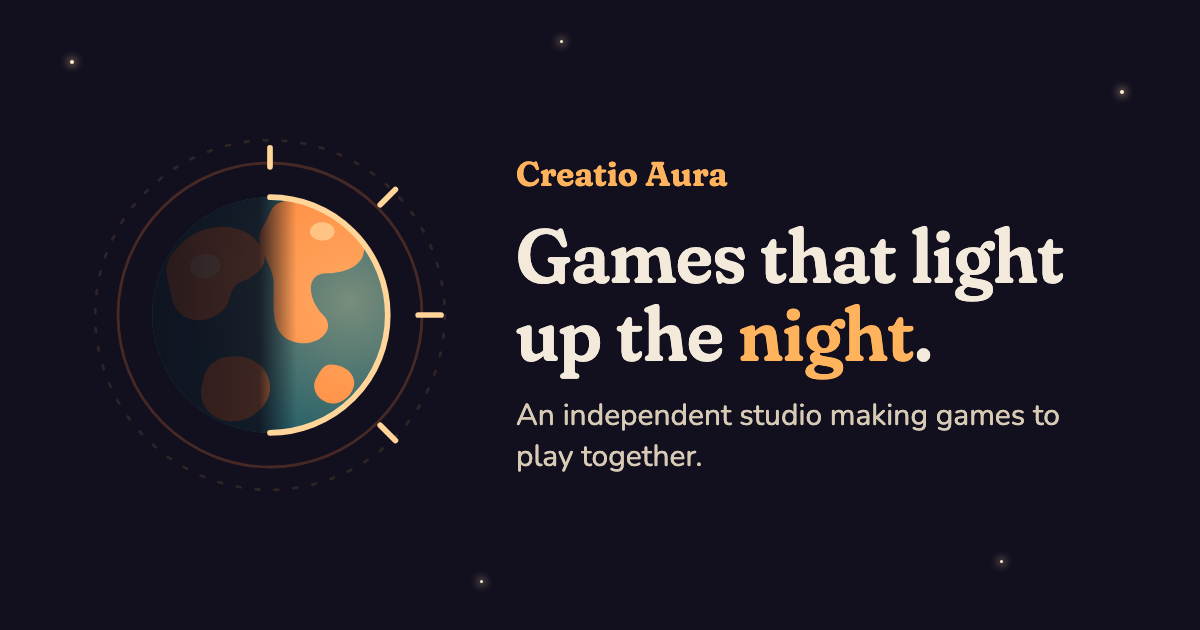
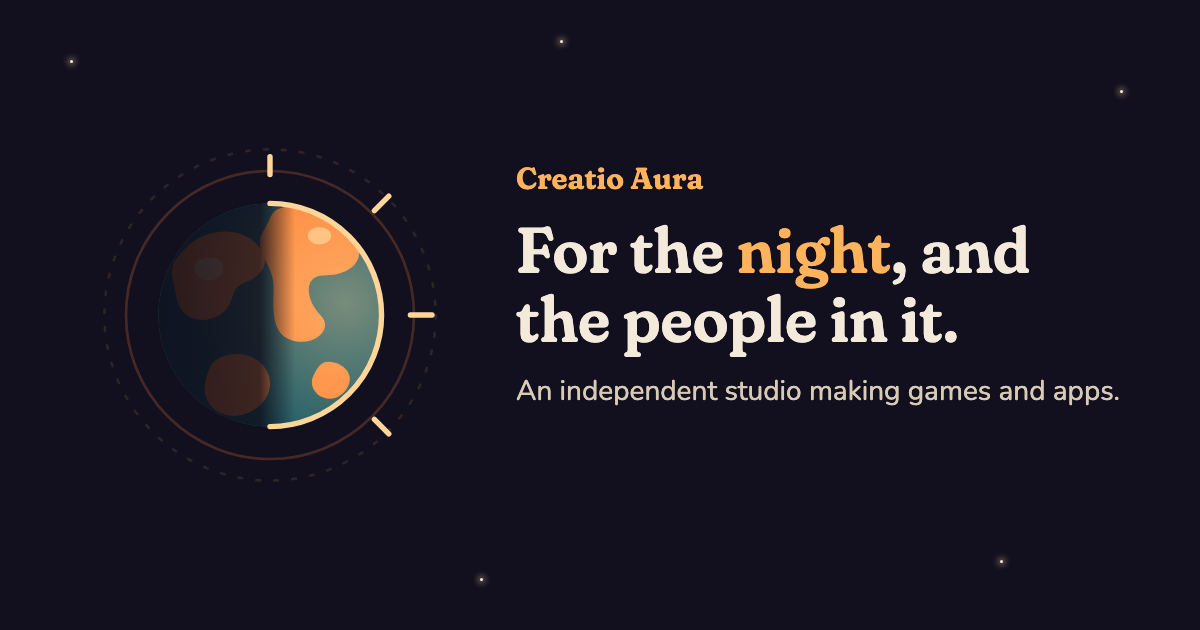
A new studio line, and two more projects on the home page (#29)
The home page now reads "For the night, and the people in it.", and the studio
is described as making games and apps rather than games alone. Effugium Aura
and Secessio Aura join Ignis Aura under What's cooking, each with just a name,
a one-line hint and "In the works" until they're ready to share; they take the
place of the "Still a spark" card. Who we are, the link-preview text and image,
and the privacy and beta terms pages say "independent studio" to match.

diff --git a/site/index.html b/site/index.html
@@ -3,8 +3,8 @@
 <head>
   <meta charset="utf-8">
   <meta name="viewport" content="width=device-width, initial-scale=1">
-  <title>Creatio Aura · Games that light up the night</title>
-  <meta name="description" content="Creatio Aura is an independent studio making tabletop games with pieces crafted with care and companion apps that run the game. Our first, Ignis Aura, is in beta.">
+  <title>Creatio Aura · For the night, and the people in it</title>
+  <meta name="description" content="Creatio Aura is an independent studio making games for friends around the table, and quiet apps for the hours around them. Our first, Ignis Aura, is in beta.">
   <meta name="theme-color" content="#120f1f">
   <link rel="icon" href="/favicon.svg" type="image/svg+xml">
   <!-- Link previews (Messages, WhatsApp, Slack, social) and the home-screen icon. -->
@@ -12,12 +12,12 @@
   <meta property="og:type" content="website">
   <meta property="og:site_name" content="Creatio Aura">
   <meta property="og:title" content="Creatio Aura">
-  <meta property="og:description" content="An independent studio making games to play together. Our first, Ignis Aura, is in active development: beta sign-ups are open.">
+  <meta property="og:description" content="An independent studio making games and apps. Our first, Ignis Aura, is in active development: beta sign-ups are open.">
   <meta property="og:url" content="https://creatio-aura.github.io/">
   <meta property="og:image" content="https://creatio-aura.github.io/images/share-creatio-aura.png">
   <meta property="og:image:width" content="1200">
   <meta property="og:image:height" content="630">
-  <meta property="og:image:alt" content="The Creatio Aura world logo and the words: Games that light up the night.">
+  <meta property="og:image:alt" content="The Creatio Aura world logo and the words: For the night, and the people in it.">
   <meta name="twitter:card" content="summary_large_image">
   <link rel="preconnect" href="https://fonts.googleapis.com">
   <link rel="preconnect" href="https://fonts.gstatic.com" crossorigin>
@@ -71,8 +71,8 @@
         <path d="M100 38a62 62 0 0 1 0 124" stroke="#ffd59a" stroke-width="3" stroke-linecap="round"/>
         <path d="M178 100h12M100 12v10M158 42l8-8M158 158l8 8" stroke="#ffd59a" stroke-width="3" stroke-linecap="round"/>
       </svg>
-      <h1>Games that light up the <span class="night"><span class="moon" aria-hidden="true"></span><span class="word">night</span></span>.</h1>
-      <p>Creatio Aura is an independent studio making games for friends gathered at the table, or joining from anywhere. Our first is in active development. Sign up for the beta below if you're interested.</p>
+      <h1>For the <span class="nowrap"><span class="night"><span class="moon" aria-hidden="true"></span><span class="word">night</span></span>,</span> and the people in it.</h1>
+      <p>Creatio Aura is an independent studio. We make games for friends around the table, and quiet apps for the hours around them. Our first game is in active development. Sign up for the beta below if you're interested.</p>
       <div class="actions">
         <a class="button" href="/ignis/#beta">Join the Ignis Aura beta</a>
         <a class="button ghost" href="#projects">See our projects</a>
@@ -91,9 +91,22 @@
           <span class="chips"><span>iPhone</span><span>Android</span><span>Web</span></span>
           <span style="font-weight: 700; color: var(--amber)">Take a look →</span>
         </a>
-        <div class="card spark">
-          <h3>Still a spark</h3>
-          <p>The next project shows up here once it's ready to share.</p>
+        <!-- Projects in the works show only a name and a hint until they're ready to share. -->
+        <div class="card">
+          <div class="card-top">
+            <span class="badge quiet">In the works</span>
+          </div>
+          <span class="project-name effugium">Effugium Aura</span>
+          <span>Something quiet, for when you need a little peace.</span>
+          <span class="small">More soon.</span>
+        </div>
+        <div class="card">
+          <div class="card-top">
+            <span class="badge quiet">In the works</span>
+          </div>
+          <span class="project-name secessio">Secessio Aura</span>
+          <span>Something private, for the people closest to you.</span>
+          <span class="small">More soon.</span>
         </div>
       </div>
     </section>
@@ -102,11 +115,11 @@
       <div class="wrap">
         <div>
           <h2 style="font-size: 40px; margin-bottom: 12px">Who we are</h2>
-          <p>Creatio Aura is a small, independent game studio. Every game starts at a real table with real friends: pieces made with care, beautiful and satisfying to hold, and an app that helps run the game, telling the story and keeping everyone in step.</p>
+          <p>Creatio Aura is a small, independent studio. We make a few things, slowly and with care: games that bring friends to the table, and apps that treat the people using them with respect.</p>
         </div>
-        <div class="value"><h3>Made for the table</h3><p>Real pieces in your hands. The app runs the game; the friends play it.</p></div>
-        <div class="value"><h3>Or from anywhere</h3><p>Join a friend's game from your own phone or a browser.</p></div>
-        <div class="value"><h3>Shaped by players</h3><p>Beta testers play early and tell us what to change.</p></div>
+        <div class="value"><h3>Made with care</h3><p>Pieces that are good to hold, and apps that are calm to use.</p></div>
+        <div class="value"><h3>Calm by design</h3><p>Nothing built to keep you hooked, and nothing that shouts for your attention.</p></div>
+        <div class="value"><h3>Shaped by people</h3><p>Testers try things early and tell us what to change.</p></div>
       </div>
     </section>
 

diff --git a/site/styles.css b/site/styles.css
@@ -12,6 +12,8 @@
   --text-muted: #b9a8d6;
   --ember: #ff8a3d;
   --amber: #ffb35c;
+  --effugium: #7fd4c6;
+  --secessio: #c9b3ff;
   --ink-on-ember: #1d0f05;
   --error: #ff9b8a;
   --serif: "Fraunces", Georgia, serif;
@@ -66,12 +68,14 @@ p { margin: 0; }
 
 /* Home */
 .hero { display: flex; flex-direction: column; align-items: center; text-align: center; gap: 24px; padding-top: 32px; padding-bottom: 72px; }
-.hero h1 { font-size: clamp(42px, 6.5vw, 80px); max-width: 16ch; }
+.hero h1 { font-size: clamp(42px, 6.5vw, 80px); max-width: 16ch; text-wrap: balance; }
 .hero p { font-size: 20px; color: var(--text-soft); max-width: 54ch; }
 .actions { display: flex; gap: 14px; flex-wrap: wrap; justify-content: center; }
 .night { position: relative; display: inline-block; color: var(--amber); }
 .night .moon { position: absolute; left: 50%; top: 50%; width: 1.5em; height: 1.5em; transform: translate(-38%, -62%); border-radius: 50%; background: radial-gradient(circle at 38% 36%, #fff6dc 0%, #f6dfae 45%, #e9c78a 100%); opacity: 0.32; animation: moonglow 6s ease-in-out infinite; }
 .night .word { position: relative; }
+/* Keeps "night," together: the moon makes "night" its own box, so a line could break before the comma. */
+.nowrap { white-space: nowrap; }
 @keyframes moonglow {
   0%, 100% { box-shadow: 0 0 50px 18px rgba(255, 214, 150, 0.22), 0 0 120px 50px rgba(255, 170, 90, 0.1); }
   50% { box-shadow: 0 0 64px 24px rgba(255, 214, 150, 0.3), 0 0 150px 64px rgba(255, 170, 90, 0.14); }
@@ -84,15 +88,19 @@ a.card:hover { border-color: #5b4d78; color: var(--text); }
 .card-top { display: flex; justify-content: space-between; align-items: center; gap: 12px; flex-wrap: wrap; }
 .eyebrow { font-size: 13px; font-weight: 700; letter-spacing: 2px; text-transform: uppercase; color: var(--text-muted); }
 .badge { padding: 6px 14px; border-radius: 99px; background: #3a2618; border: 1px solid var(--ember); color: var(--amber); font-weight: 700; font-size: 13px; }
+/* A project still in the works: no sign-ups yet. */
+.badge.quiet { background: #241d38; border-color: #5b4d78; color: var(--text-soft); }
 /* The Ignis Aura flame beside its name, as in the app. */
 .with-flame { display: inline-flex; align-items: center; gap: 0.12em; }
 .with-flame .flame { width: 0.95em; height: 0.95em; flex: none; margin-left: -0.12em; }
 .project-hero h1.with-flame { flex-direction: column; align-items: flex-start; gap: 0.08em; }
 .project-hero h1.with-flame .flame { width: 0.7em; height: 0.7em; margin-left: -0.1em; }
 .project-name { font-family: var(--serif); font-variation-settings: "SOFT" 100; font-weight: 700; font-size: 54px; line-height: 1; color: var(--amber); }
+/* Each project's own colour for its name. */
+.project-name.effugium { color: var(--effugium); }
+.project-name.secessio { color: var(--secessio); }
 .chips { display: flex; gap: 8px; flex-wrap: wrap; font-size: 14px; font-weight: 600; }
 .chips span { padding: 6px 12px; border-radius: 99px; background: #2a2240; color: #e8dcc8; }
-.card.spark { align-items: center; justify-content: center; text-align: center; border-style: dashed; background: none; color: var(--text-muted); padding: 40px 28px; }
 .band { background: var(--sky-raised); border-top: 2px solid var(--line); border-bottom: 2px solid var(--line); position: relative; }
 .band .wrap { display: grid; grid-template-columns: repeat(auto-fit, minmax(240px, 1fr)); gap: 28px; padding-top: 72px; padding-bottom: 72px; }
 .value { display: flex; flex-direction: column; gap: 10px; padding: 24px; border-radius: 22px; background: var(--card); }

diff --git a/site/privacy/index.html b/site/privacy/index.html
@@ -12,12 +12,12 @@
   <meta property="og:type" content="website">
   <meta property="og:site_name" content="Creatio Aura">
   <meta property="og:title" content="Privacy · Creatio Aura">
-  <meta property="og:description" content="An independent studio making games to play together. Our first, Ignis Aura, is in active development: beta sign-ups are open.">
+  <meta property="og:description" content="An independent studio making games and apps. Our first, Ignis Aura, is in active development: beta sign-ups are open.">
   <meta property="og:url" content="https://creatio-aura.github.io/privacy/">
   <meta property="og:image" content="https://creatio-aura.github.io/images/share-creatio-aura.png">
   <meta property="og:image:width" content="1200">
   <meta property="og:image:height" content="630">
-  <meta property="og:image:alt" content="The Creatio Aura world logo and the words: Games that light up the night.">
+  <meta property="og:image:alt" content="The Creatio Aura world logo and the words: For the night, and the people in it.">
   <meta name="twitter:card" content="summary_large_image">
   <link rel="preconnect" href="https://fonts.googleapis.com">
   <link rel="preconnect" href="https://fonts.gstatic.com" crossorigin>
@@ -39,7 +39,7 @@
     <p class="small">Last updated: 22 October 2026.</p>
 
     <h2>Who we are</h2>
-    <p>Creatio Aura Ltd, an independent game studio. Contact us at <a href="mailto:creatio.aura@gmail.com">creatio.aura@gmail.com</a>.</p>
+    <p>Creatio Aura Ltd, an independent studio. Contact us at <a href="mailto:creatio.aura@gmail.com">creatio.aura@gmail.com</a>.</p>
 
     <h2>What we collect, and why</h2>
     <p>When you sign up for a beta with an invite code, we keep:</p>

diff --git a/site/beta/terms/index.html b/site/beta/terms/index.html
@@ -17,7 +17,7 @@
   <meta property="og:image" content="https://creatio-aura.github.io/images/share-creatio-aura.png">
   <meta property="og:image:width" content="1200">
   <meta property="og:image:height" content="630">
-  <meta property="og:image:alt" content="The Creatio Aura world logo and the words: Games that light up the night.">
+  <meta property="og:image:alt" content="The Creatio Aura world logo and the words: For the night, and the people in it.">
   <meta name="twitter:card" content="summary_large_image">
   <link rel="preconnect" href="https://fonts.googleapis.com">
   <link rel="preconnect" href="https://fonts.gstatic.com" crossorigin>
@@ -39,7 +39,7 @@
     <p class="small">Last updated: 22 October 2026.</p>
 
     <h2>Who we are</h2>
-    <p>Ignis Aura is made by Creatio Aura Ltd, an independent game studio. Contact us at <a href="mailto:creatio.aura@gmail.com">creatio.aura@gmail.com</a>.</p>
+    <p>Ignis Aura is made by Creatio Aura Ltd, an independent studio. Contact us at <a href="mailto:creatio.aura@gmail.com">creatio.aura@gmail.com</a>.</p>
 
     <h2>Agreeing to these terms</h2>
     <p>You agree to these terms when you sign up for the beta (by ticking the box that says so), and again by downloading, installing, opening or playing any beta build of Ignis Aura (the Android app, the web version, or any other). If you don't agree, please don't sign up, download or use it.</p>

diff --git a/site/404.html b/site/404.html
@@ -18,12 +18,12 @@
   <meta property="og:type" content="website">
   <meta property="og:site_name" content="Creatio Aura">
   <meta property="og:title" content="Creatio Aura">
-  <meta property="og:description" content="An independent studio making games to play together. Our first, Ignis Aura, is in active development: beta sign-ups are open.">
+  <meta property="og:description" content="An independent studio making games and apps. Our first, Ignis Aura, is in active development: beta sign-ups are open.">
   <meta property="og:url" content="https://creatio-aura.github.io/">
   <meta property="og:image" content="https://creatio-aura.github.io/images/share-creatio-aura.png">
   <meta property="og:image:width" content="1200">
   <meta property="og:image:height" content="630">
-  <meta property="og:image:alt" content="The Creatio Aura world logo and the words: Games that light up the night.">
+  <meta property="og:image:alt" content="The Creatio Aura world logo and the words: For the night, and the people in it.">
   <meta name="twitter:card" content="summary_large_image">
   <link rel="preconnect" href="https://fonts.googleapis.com">
   <link rel="preconnect" href="https://fonts.gstatic.com" crossorigin>

diff --git a/site/beta/confirmed/index.html b/site/beta/confirmed/index.html
@@ -12,12 +12,12 @@
   <meta property="og:type" content="website">
   <meta property="og:site_name" content="Creatio Aura">
   <meta property="og:title" content="Creatio Aura">
-  <meta property="og:description" content="An independent studio making games to play together. Our first, Ignis Aura, is in active development: beta sign-ups are open.">
+  <meta property="og:description" content="An independent studio making games and apps. Our first, Ignis Aura, is in active development: beta sign-ups are open.">
   <meta property="og:url" content="https://creatio-aura.github.io/">
   <meta property="og:image" content="https://creatio-aura.github.io/images/share-creatio-aura.png">
   <meta property="og:image:width" content="1200">
   <meta property="og:image:height" content="630">
-  <meta property="og:image:alt" content="The Creatio Aura world logo and the words: Games that light up the night.">
+  <meta property="og:image:alt" content="The Creatio Aura world logo and the words: For the night, and the people in it.">
   <meta name="twitter:card" content="summary_large_image">
   <link rel="preconnect" href="https://fonts.googleapis.com">
   <link rel="preconnect" href="https://fonts.gstatic.com" crossorigin>

diff --git a/site/beta/left/index.html b/site/beta/left/index.html
@@ -12,12 +12,12 @@
   <meta property="og:type" content="website">
   <meta property="og:site_name" content="Creatio Aura">
   <meta property="og:title" content="Creatio Aura">
-  <meta property="og:description" content="An independent studio making games to play together. Our first, Ignis Aura, is in active development: beta sign-ups are open.">
+  <meta property="og:description" content="An independent studio making games and apps. Our first, Ignis Aura, is in active development: beta sign-ups are open.">
   <meta property="og:url" content="https://creatio-aura.github.io/">
   <meta property="og:image" content="https://creatio-aura.github.io/images/share-creatio-aura.png">
   <meta property="og:image:width" content="1200">
   <meta property="og:image:height" content="630">
-  <meta property="og:image:alt" content="The Creatio Aura world logo and the words: Games that light up the night.">
+  <meta property="og:image:alt" content="The Creatio Aura world logo and the words: For the night, and the people in it.">
   <meta name="twitter:card" content="summary_large_image">
   <link rel="preconnect" href="https://fonts.googleapis.com">
   <link rel="preconnect" href="https://fonts.gstatic.com" crossorigin>

diff --git a/site/beta/link-expired/index.html b/site/beta/link-expired/index.html
@@ -12,12 +12,12 @@
   <meta property="og:type" content="website">
   <meta property="og:site_name" content="Creatio Aura">
   <meta property="og:title" content="Creatio Aura">
-  <meta property="og:description" content="An independent studio making games to play together. Our first, Ignis Aura, is in active development: beta sign-ups are open.">
+  <meta property="og:description" content="An independent studio making games and apps. Our first, Ignis Aura, is in active development: beta sign-ups are open.">
   <meta property="og:url" content="https://creatio-aura.github.io/">
   <meta property="og:image" content="https://creatio-aura.github.io/images/share-creatio-aura.png">
   <meta property="og:image:width" content="1200">
   <meta property="og:image:height" content="630">
-  <meta property="og:image:alt" content="The Creatio Aura world logo and the words: Games that light up the night.">
+  <meta property="og:image:alt" content="The Creatio Aura world logo and the words: For the night, and the people in it.">
   <meta name="twitter:card" content="summary_large_image">
   <link rel="preconnect" href="https://fonts.googleapis.com">
   <link rel="preconnect" href="https://fonts.gstatic.com" crossorigin>
